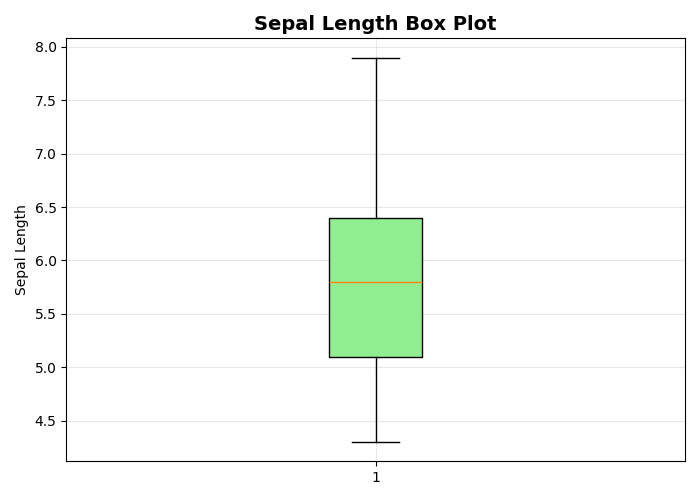
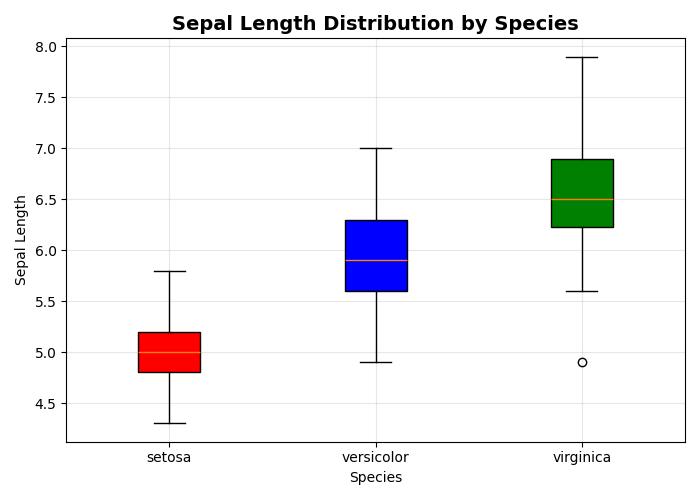
visuals

diff --git a/src/visualization.py b/src/visualization.py
@@ -1,22 +1,37 @@
 import matplotlib.pyplot as plt
 import os
 
-
 # Create graphs folder if not exists
 os.makedirs("outputs/graphs", exist_ok=True)
+
+
 def plot_all_graphs(df):
 
-    # ---------------- HISTOGRAM ----------------
-    plt.figure(figsize=(7,5))
-    plt.hist(
-        df["petal_length"],
-        bins=12,
-        color="skyblue",
-        edgecolor="black"
-    )
+    # Colors for species
+    colors = {
+        "setosa": "red",
+        "versicolor": "blue",
+        "virginica": "green"
+    }
+
+    # ---------------- HISTOGRAM (IMPROVED) ----------------
+    plt.figure(figsize=(8,5))
+
+    for species in df["species"].unique():
+
+        subset = df[df["species"] == species]
+
+        plt.hist(
+            subset["petal_length"],
+            bins=12,
+            alpha=0.4,
+            color=colors[species],
+            edgecolor="black",
+            label=species
+        )
 
     plt.title(
-        "Petal Length Distribution",
+        "Petal Length Distribution by Species",
         fontsize=14,
         fontweight="bold"
     )
@@ -24,25 +39,32 @@ def plot_all_graphs(df):
     plt.xlabel("Petal Length")
     plt.ylabel("Frequency")
 
+    plt.legend(title="Species")
     plt.grid(alpha=0.3)
+
     plt.tight_layout()
     plt.savefig("outputs/graphs/histogram.png")
     plt.close()
 
 
-    # ---------------- SCATTER ----------------
+    # ---------------- SCATTER (SPECIES-WISE) ----------------
     plt.figure(figsize=(7,5))
 
-    plt.scatter(
-        df["petal_length"],
-        df["petal_width"],
-        color="purple",
-        s=70,
-        alpha=0.7
-    )
+    for species in df["species"].unique():
+
+        subset = df[df["species"] == species]
+
+        plt.scatter(
+            subset["petal_length"],
+            subset["petal_width"],
+            color=colors[species],
+            s=70,
+            alpha=0.7,
+            label=species
+        )
 
     plt.title(
-        "Petal Length vs Petal Width",
+        "Petal Length vs Petal Width (Species-wise)",
         fontsize=14,
         fontweight="bold"
     )
@@ -50,31 +72,47 @@ def plot_all_graphs(df):
     plt.xlabel("Petal Length")
     plt.ylabel("Petal Width")
 
+    plt.legend()
     plt.grid(alpha=0.3)
+
     plt.tight_layout()
     plt.savefig("outputs/graphs/scatter_plot.png")
     plt.close()
 
 
-    # ---------------- BOXPLOT ----------------
+    # ---------------- BOXPLOT (SPECIES-WISE) ----------------
     plt.figure(figsize=(7,5))
 
-    plt.boxplot(
-        df["sepal_length"],
-        patch_artist=True,
-        boxprops=dict(facecolor="lightgreen")
-    )
+    data = []
+    labels = []
+
+    for species in df["species"].unique():
+
+        subset = df[df["species"] == species]
+
+        data.append(subset["sepal_length"])
+        labels.append(species)
+
+    box = plt.boxplot(data, patch_artist=True)
+
+    # Apply colors to boxes
+    for patch, species in zip(box['boxes'], labels):
+        patch.set_facecolor(colors[species])
 
     plt.title(
-        "Sepal Length Box Plot",
+        "Sepal Length Distribution by Species",
         fontsize=14,
         fontweight="bold"
     )
 
+    plt.xlabel("Species")
     plt.ylabel("Sepal Length")
+
+    plt.xticks(range(1, len(labels)+1), labels)
 
     plt.grid(alpha=0.3)
     plt.tight_layout()
+
     plt.savefig("outputs/graphs/box_plot.png")
     plt.close()
 
@@ -82,9 +120,11 @@ def plot_all_graphs(df):
     # ---------------- BAR CHART ----------------
     plt.figure(figsize=(7,5))
 
-    df["species"].value_counts().plot(
+    counts = df["species"].value_counts()
+
+    counts.plot(
         kind="bar",
-        color=["red", "blue", "orange"]
+        color=[colors[s] for s in counts.index]
     )
 
     plt.title(
@@ -97,7 +137,9 @@ def plot_all_graphs(df):
     plt.ylabel("Count")
 
     plt.xticks(rotation=0)
+
     plt.grid(alpha=0.3)
     plt.tight_layout()
+
     plt.savefig("outputs/graphs/bar_chart.png")
     plt.close()
